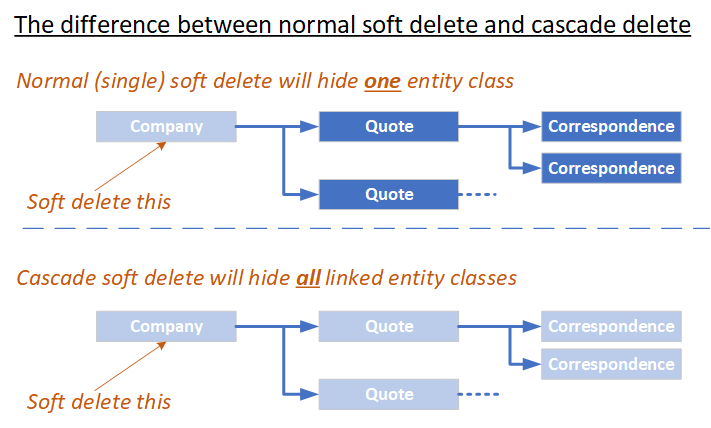
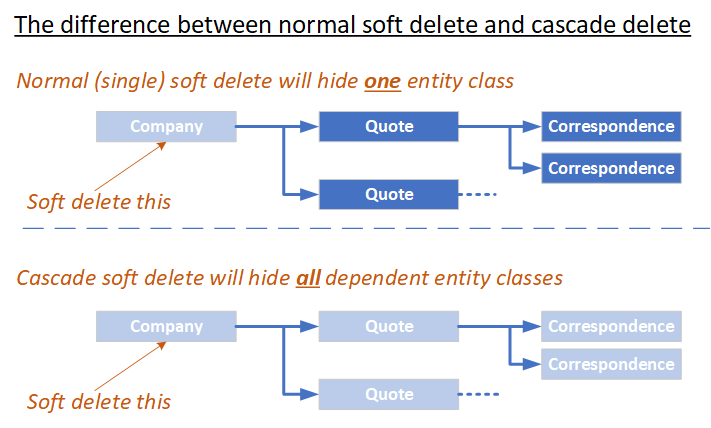
Tidy up and improved image

Changed region(s): [[0.4332, 0.6379, 0.8045, 0.6682]]

diff --git a/Test/UnitTests/SingleSoftDeleteTests/TestSetSoftDelete.cs b/Test/UnitTests/SingleSoftDeleteTests/TestSetSoftDelete.cs
@@ -76,26 +76,23 @@ namespace Test.UnitTests.SingleSoftDeleteTests
         {
             //SETUP
             var options = SqliteInMemory.CreateOptions<SingleSoftDelDbContext>();
-            using (var context = new SingleSoftDelDbContext(options))
-            {
-                context.Database.EnsureCreated();
-                var book = context.AddBookWithReviewToDb();
+            using var context = new SingleSoftDelDbContext(options);
+            context.Database.EnsureCreated();
+            var book = context.AddBookWithReviewToDb();
 
-                var config = new ConfigSoftDeleteWithUserId(context);
-                var service = new SingleSoftDeleteService<ISingleSoftDelete>(config);
+            var config = new ConfigSoftDeleteWithUserId(context);
+            var service = new SingleSoftDeleteService<ISingleSoftDelete>(config);
 
-                //ATTEMPT
-                var status = service.SetSoftDelete(book);
+            //ATTEMPT
+            var status = service.SetSoftDelete(book);
 
-                //VERIFY
-                status.IsValid.ShouldBeTrue(status.GetAllErrors());
-                status.Result.ShouldEqual(1);
-            }
-            using (var context = new SingleSoftDelDbContext(options))
-            {
-                context.Books.Count().ShouldEqual(0);
-                context.Books.IgnoreQueryFilters().Count().ShouldEqual(1);
-            }
+            //VERIFY
+            context.ChangeTracker.Clear();
+            
+            status.IsValid.ShouldBeTrue(status.GetAllErrors());
+            status.Result.ShouldEqual(1);
+            context.Books.Count().ShouldEqual(0);
+            context.Books.IgnoreQueryFilters().Count().ShouldEqual(1);
         }
 
         [Fact]

diff --git a/Test/ExampleConfigs/ConfigSoftDeleteShadowDel.cs b/Test/ExampleConfigs/ConfigSoftDeleteShadowDel.cs
@@ -11,7 +11,6 @@ namespace Test.ExampleConfigs
 {
     public class ConfigSoftDeleteShadowDel : SingleSoftDeleteConfiguration<IShadowSoftDelete>
     {
-
         public ConfigSoftDeleteShadowDel(SingleSoftDelDbContext context)
             : base(context)
         {
